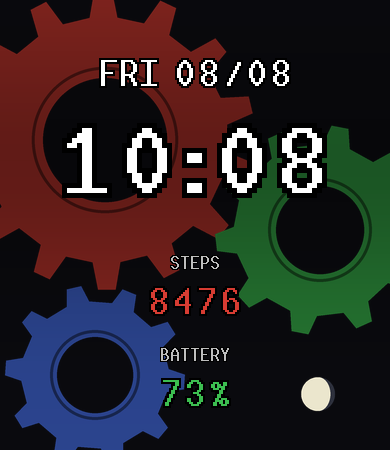
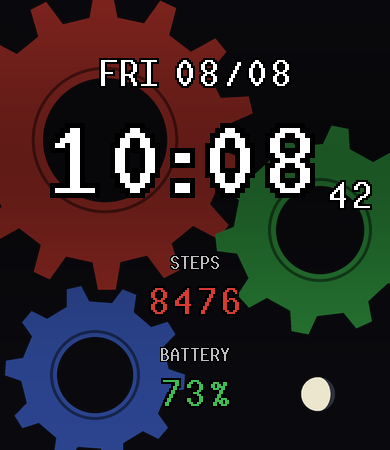
Add small seconds display beside the time
IMG_TIME second_* params, reusing the 24x44 white date digits (the
pixel grid scales in integers, so "half size" lands at 40% of the 60x110
main digits). Time block nudged left so the seconds fit with margin.

Claude-Session: https://claude.ai/code/session_01Mmkrk9sDkbVzoiBDNpD5EP

Changed region(s): [[0.2769, 0.2489, 0.9538, 0.4667], [0.1231, 0.28, 0.2769, 0.4667]]

diff --git a/watchface/index.js b/watchface/index.js
@@ -80,10 +80,12 @@ WatchFace({
       day_tc_array: dateDigits
     })
 
-    // HH:MM — digits are 60px wide, colon 35px, so 4*60 + 35 = 275 total
+    // HH:MM — digits are 60px wide, colon 35px, so 4*60 + 35 = 275 total.
+    // Small seconds (the 24x44 white date digits) sit to the right,
+    // bottom-aligned with the big digits (y 108 + 110 - 44 = 174).
     hmUI.createWidget(hmUI.widget.IMG_TIME, {
       hour_zero: 1,
-      hour_startX: 57,
+      hour_startX: 45,
       hour_startY: 108,
       hour_array: timeDigits,
       hour_unit_sc: 'time/colon.png',
@@ -91,7 +93,11 @@ WatchFace({
       hour_unit_en: 'time/colon.png',
       minute_follow: 1,
       minute_zero: 1,
-      minute_array: timeDigits
+      minute_array: timeDigits,
+      second_zero: 1,
+      second_startX: 326,
+      second_startY: 174,
+      second_array: dateDigits
     })
 
     hmUI.createWidget(hmUI.widget.IMG, {

diff --git a/gen_assets.py b/gen_assets.py
@@ -11,7 +11,7 @@ Produces, under assets/bip6/:
   preview.png             390x450 preview with sample data baked in
   time/0.png..9.png       big white digits for HH:MM (scale 5)
   time/colon.png          colon separator
-  date/0.png..9.png       white digits for MM/DD (scale 2)
+  date/0.png..9.png       white digits for MM/DD and the small seconds (scale 2)
   date/slash.png          '/' separator
   week/0.png..6.png       MON..SUN day abbreviations (scale 2)
   steps/0.png..9.png      red digits (scale 2)
@@ -209,7 +209,12 @@ def make_preview(bg):
     x += paste("week/4.png", x, DATE_Y) + DATE_GAP
     for p in ("date/0.png", "date/8.png", "date/slash.png", "date/0.png", "date/8.png"):
         x += paste(p, x, DATE_Y)
-    paste_row(["time/1.png", "time/0.png", "time/colon.png", "time/0.png", "time/8.png"], TIME_Y)
+    # time 10:08 + small 42s, layout mirrors TIME_X/SEC_X in index.js
+    x = TIME_X
+    for p in ("time/1.png", "time/0.png", "time/colon.png", "time/0.png", "time/8.png"):
+        x += paste(p, x, TIME_Y)
+    paste("date/4.png", SEC_X, SEC_Y)
+    paste("date/2.png", SEC_X + 24, SEC_Y)
     paste_row(["label_steps.png"], 252)
     paste_row(["steps/8.png", "steps/4.png", "steps/7.png", "steps/6.png"], 280)
     paste_row(["label_batt.png"], 344)
@@ -240,12 +245,16 @@ if __name__ == "__main__":
     DATE_Y = 52
     time_w = 4 * Image.open(os.path.join(OUT, "time", "0.png")).width \
         + Image.open(os.path.join(OUT, "time", "colon.png")).width
+    TIME_X = 45   # nudged left of center so the seconds fit on the right
     TIME_Y = 108
+    SEC_X = TIME_X + time_w + 6
+    SEC_Y = TIME_Y + 110 - 44  # bottom-aligned with the big digits
 
     make_preview(bg)
     print("assets written to", OUT)
     print(f"index.js constants: WEEK_X={DATE_X} DATE_Y={DATE_Y} "
-          f"MONTH_X={DATE_X + week_w + DATE_GAP} TIME_X={(W - time_w) // 2} TIME_Y={TIME_Y} "
+          f"MONTH_X={DATE_X + week_w + DATE_GAP} TIME_X={TIME_X} TIME_Y={TIME_Y} "
+          f"SEC_X={SEC_X} SEC_Y={SEC_Y} "
           f"(time digits {Image.open(os.path.join(OUT, 'time', '0.png')).width}w, "
           f"colon {Image.open(os.path.join(OUT, 'time', 'colon.png')).width}w, "
           f"labels {Image.open(os.path.join(OUT, 'label_steps.png')).width}x"
